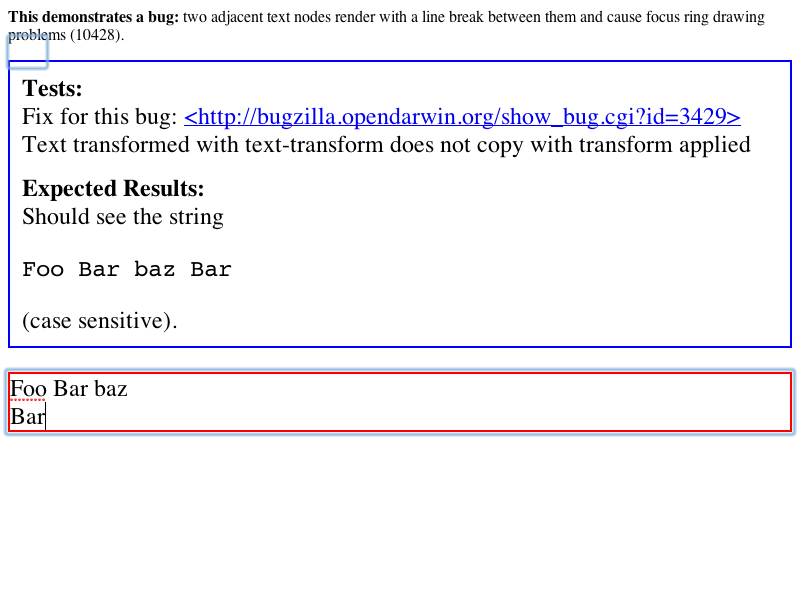
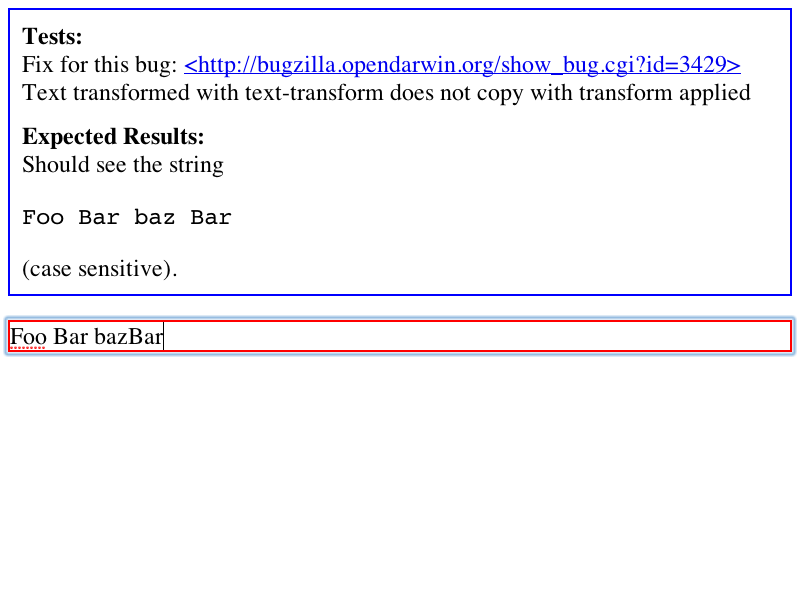
LayoutTests:
Reviewed by harrison
        
        <rdar://problem/4806874>
        Missing background image after paste

        Checking in new expected results for fixes:
        * editing/inserting/insert-3851164-fix-expected.checksum:
        * editing/inserting/insert-3851164-fix-expected.png:
        * editing/selection/drag-in-iframe-expected.checksum:
        * editing/selection/drag-in-iframe-expected.png:

        Same, but also removing an outdated comment about a bug:
        * editing/pasteboard/paste-text-019-expected.checksum:
        * editing/pasteboard/paste-text-019-expected.png:
        * editing/pasteboard/paste-text-019-expected.txt:
        * editing/pasteboard/paste-text-019.html:
        
        Added:
        * editing/pasteboard/4806874-expected.checksum: Added.
        * editing/pasteboard/4806874-expected.png: Added.
        * editing/pasteboard/4806874-expected.txt: Added.
        * editing/pasteboard/4806874.html: Added.
        
        Equivalent render trees:        
        * editing/inserting/insert-3907422-fix-expected.txt:
        * editing/pasteboard/paste-text-011-expected.txt:
        * editing/pasteboard/paste-text-015-expected.txt:

WebCore:

        Reviewed by harrison
        
        <rdar://problem/4806874>
        Missing background image after paste
        
        * editing/markup.cpp:
        (WebCore::createMarkup): If the body is fully selected, add a 
        div with its CSS properties to the markup.  Migrated a use of
[…]

Changed region(s): [[0.0, 0.0, 1.0, 0.39], [0.0, 0.42, 1.0, 0.75]]

diff --git a/LayoutTests/editing/pasteboard/4806874.html b/LayoutTests/editing/pasteboard/4806874.html
@@ -1,0 +1,12 @@
+<p>This tests for an infinite loop on Paste.  You should see 'Hello: ' and then an input field.</p>
+<div id="div" contenteditable="true">Hello: </div>
+
+<script>
+var div = document.getElementById("div");
+var sel = window.getSelection();
+
+sel.setPosition(div, 0);
+sel.modify("move", "forward", "word");
+
+document.execCommand("InsertHTML", false, "<div><input type='text'></div>");
+</script>

diff --git a/LayoutTests/editing/pasteboard/paste-text-019.html b/LayoutTests/editing/pasteboard/paste-text-019.html
@@ -37,7 +37,6 @@ function editingTest() {
 <title>Editing Test</title> 
 </head> 
 <body>
-<p><b>This demonstrates a bug:</b> two adjacent text nodes render with a line break between them and cause focus ring drawing problems (10428).</p>
 <div class="explanation">
 <div class="scenario">
 Tests: 

diff --git a/WebCore/editing/markup.cpp b/WebCore/editing/markup.cpp
@@ -27,6 +27,7 @@
 #include "markup.h"
 
 #include "CSSComputedStyleDeclaration.h"
+#include "CSSPropertyNames.h"
 #include "CSSRule.h"
 #include "CSSRuleList.h"
 #include "CSSStyleRule.h"
@@ -43,6 +44,7 @@
 #include "Logging.h"
 #include "ProcessingInstruction.h"
 #include "Range.h"
+#include "Selection.h"
 #include "htmlediting.h"
 #include "visible_units.h"
 #include "TextIterator.h"
@@ -325,8 +327,16 @@ DeprecatedString createMarkup(const Range *range, Vector<Node*>* nodes, EAnnotat
     doc->updateLayoutIgnorePendingStylesheets();
 
     Node *commonAncestorBlock = 0;
-    if (commonAncestor)
-        commonAncestorBlock = commonAncestor->enclosingBlockFlowElement();
+    if (commonAncestor) {
+        commonAncestorBlock = enclosingBlock(commonAncestor);
+        if (commonAncestorBlock->hasTagName(tbodyTag)) {
+            Node* table = commonAncestorBlock->parentNode();
+            while (table && !table->hasTagName(tableTag))
+                table = table->parentNode();
+            if (table)
+                commonAncestorBlock = table;
+        }
+    }
     if (!commonAncestorBlock)
         return "";
 
@@ -468,6 +478,33 @@ DeprecatedString createMarkup(const Range *range, Vector<Node*>* nodes, EAnnotat
                 markups.append(endMarkup(ancestor));
             }
         }
+    }
+    
+    // FIXME: Do this for all fully selected blocks, not just a body.
+    Node* root = range->startPosition().node();
+    while (root && !root->hasTagName(bodyTag))
+        root = root->parentNode();
+    if (root && *Selection::selectionFromContentsOfNode(root).toRange() == *range) {
+        CSSMutableStyleDeclaration* inlineStyleDecl = static_cast<HTMLElement*>(root)->inlineStyleDecl();
+        RefPtr<CSSMutableStyleDeclaration> style = inlineStyleDecl ? inlineStyleDecl->copy() : new CSSMutableStyleDeclaration();
+        RefPtr<CSSRuleList> matchedRules = root->document()->styleSelector()->styleRulesForElement(static_cast<Element*>(root), true);
+        if (matchedRules) {
+            for (unsigned i = 0; i < matchedRules->length(); i++) {
+                if (matchedRules->item(i)->type() == CSSRule::STYLE_RULE) {
+                    RefPtr<CSSMutableStyleDeclaration> s = static_cast<CSSStyleRule*>(matchedRules->item(i))->style();
+                    style->merge(s.get(), true);
+                }
+            }
+        }
+        defaultStyle->diff(style.get());
+        
+        // Bring the background attribute over, but not as an attribute because a background attribute on a div
+        // appears to have no effect.
+        if (!style->getPropertyCSSValue(CSS_PROP_BACKGROUND_IMAGE) && static_cast<Element*>(root)->hasAttribute(backgroundAttr))
+            style->setProperty(CSS_PROP_BACKGROUND_IMAGE, "url('" + static_cast<Element*>(root)->getAttribute(backgroundAttr) + "')");
+        
+        markups.prepend("<div style='" + style->cssText().deprecatedString() + "'>");
+        markups.append("</div>");
     }
     
     // add in the "default style" for this markup
